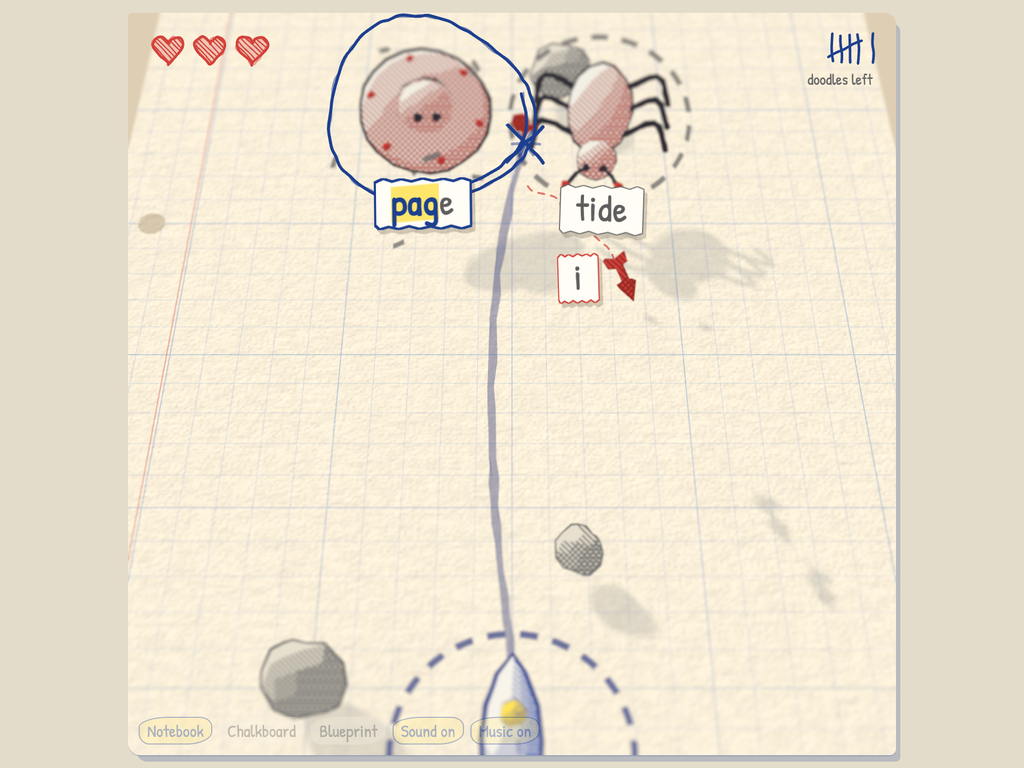
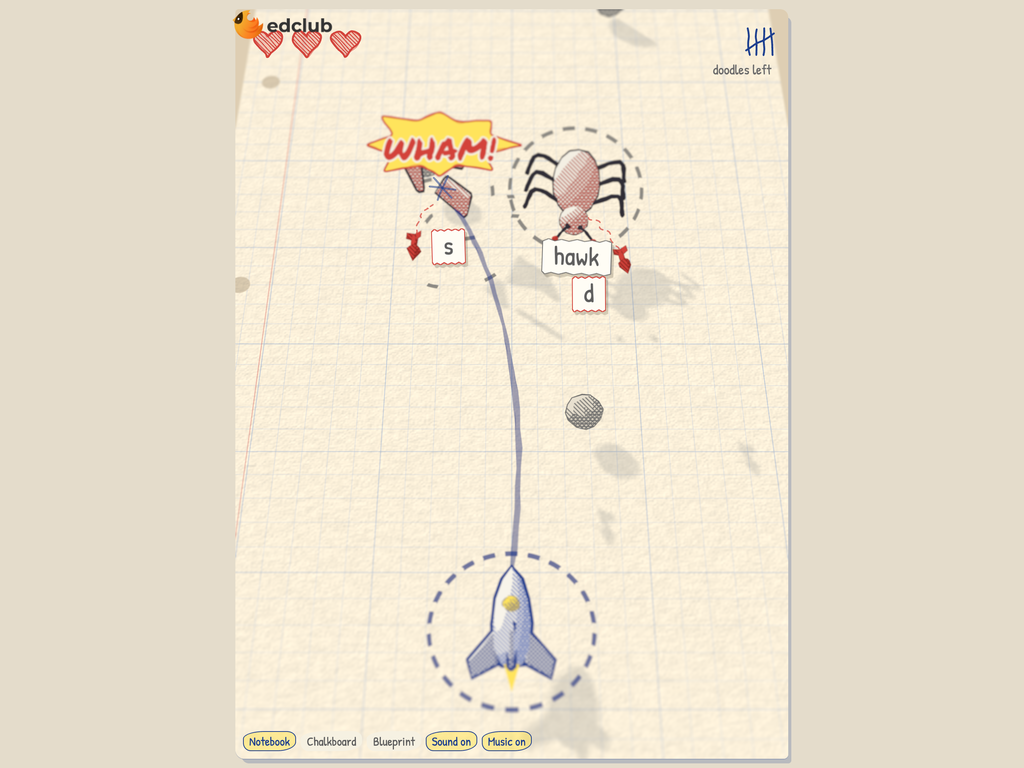
docs(readme): full-height sketchy space attack shot

diff --git a/README.md b/README.md
@@ -67,7 +67,7 @@ Learn to type on a 3D typewriter. Every key prints on the paper, the carriage st
 
 &nbsp;
 
-<a href="https://sketchy-space-attack-edclub.pages.dev/"><img src="assets/sketchy-space-attack.png" width="160" align="left" alt="Sketchy Space Attack on a notebook page: an ink shot from the hand-drawn rocket loops round a doodle labeled page, beside a spider labeled tide and a falling dart labeled i, with three hearts and a tally of doodles left." /></a>
+<a href="https://sketchy-space-attack-edclub.pages.dev/"><img src="assets/sketchy-space-attack.png" width="160" align="left" alt="Sketchy Space Attack's whole notebook page: the hand-drawn rocket's ink shot lands with a WHAM! on a doodle, beside a spider labeled hawk and falling darts labeled s and d, with three hearts and a tally of doodles left." /></a>
 <img src="assets/sketchy-space-attack-favicon.png" width="18" height="18" align="absmiddle" alt="" /> **[Sketchy Space Attack](https://sketchy-space-attack-edclub.pages.dev/)**  
 Doodles on a notebook page carry words, and typing a word shoots it down before it reaches your ship. Spiders, darts and a three-word boss come down the page, drawn with hatching and wobbly ink, on notebook, chalkboard or blueprint paper. I built it on my own for [edclub](https://www.edclub.com/). Three.js.  
 [Play](https://sketchy-space-attack-edclub.pages.dev/)
